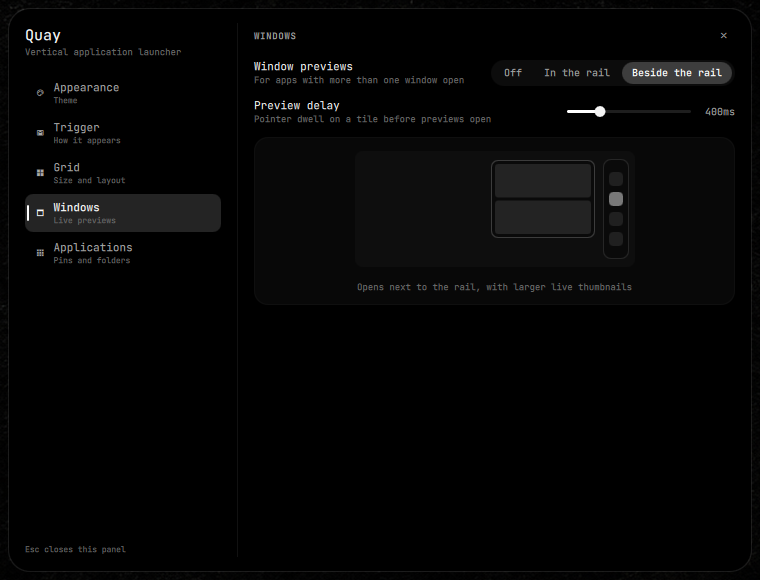
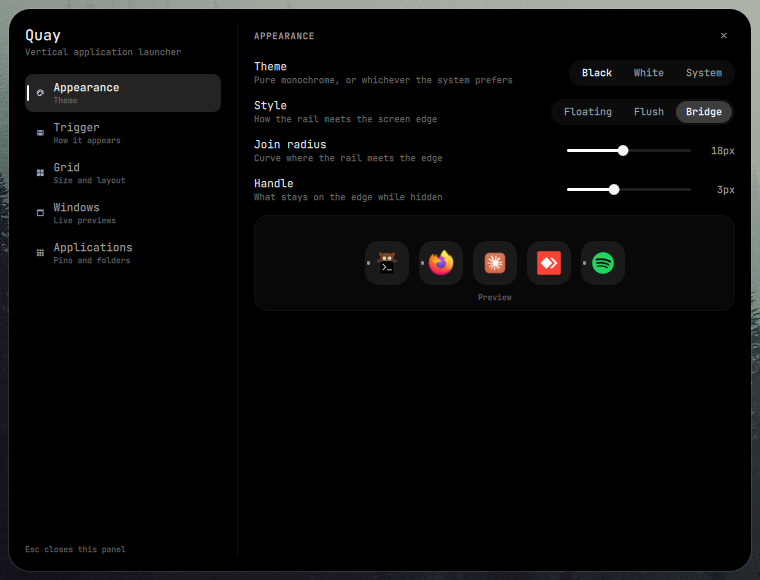
Belgelere ray görünümlerini ve yeni ekran görüntülerini ekle
README'lerde yapılandırma örneğine appearance anahtarları, özellik
listesine görünümler maddesi. Yeni styles.png üç görünümü yan yana
gösterir; settings.png artık Bridge seçili Appearance bölümünü gösterir.
Sitede ekran görüntüleri ve Settings bölümüne Style satırı.

diff --git a/docs/index.html b/docs/index.html
@@ -877,7 +877,7 @@ h3 { margin: 56px 0 18px; font: 700 14px/1.4 var(--mono); color: var(--ink); }
 
   <section class="block" id="desktop" aria-labelledby="desktop-title">
     <h2 id="desktop-title">On a desktop</h2>
-    <p class="section-lede">Captured on Hyprland at 1920×1080: the rail in both themes, window previews beside the rail for an app with two windows, the tile menu, and the Windows section of Quay's own settings panel.</p>
+    <p class="section-lede">Captured on Hyprland at 1920×1080: the rail in both themes and in its three styles, window previews beside the rail for an app with two windows, the tile menu, and the Appearance section of Quay's own settings panel.</p>
     <div class="shots">
       <figure class="wide">
         <img src="screenshots/rail.png" width="1024" height="660" loading="lazy" alt="The rail docked to the right edge of the screen, in the black theme and in the white theme">
@@ -892,8 +892,12 @@ h3 { margin: 56px 0 18px; font: 700 14px/1.4 var(--mono); color: var(--ink); }
         <figcaption>Tile menu</figcaption>
       </figure>
       <figure class="wide">
-        <img src="screenshots/settings.png" width="760" height="580" loading="lazy" alt="Quay's settings panel on the Windows section, choosing where previews open">
-        <figcaption>Settings panel, Windows section</figcaption>
+        <img src="screenshots/styles.png" width="1044" height="1018" loading="lazy" alt="The rail in its three styles: Floating off the edge, Flush along the whole edge, and Bridge welded to the edge">
+        <figcaption>Floating, Flush and Bridge styles</figcaption>
+      </figure>
+      <figure class="wide">
+        <img src="screenshots/settings.png" width="760" height="580" loading="lazy" alt="Quay's settings panel on the Appearance section, with the Bridge style selected">
+        <figcaption>Settings panel, Appearance section</figcaption>
       </figure>
     </div>
   </section>
@@ -912,6 +916,13 @@ h3 { margin: 56px 0 18px; font: 700 14px/1.4 var(--mono); color: var(--ink); }
           <button type="button" data-theme-choice="white">White</button>
           <button type="button" data-theme-choice="auto">System</button>
         </div>
+      </div>
+      <div class="setting">
+        <div>
+          <p class="setting-label">Style</p>
+          <p class="setting-hint">Off the edge, along the whole edge as part of the screen's frame, or welded to it with curved joins.</p>
+        </div>
+        <div class="seg" aria-hidden="true"><span class="is-current">Floating</span><span>Flush</span><span>Bridge</span></div>
       </div>
       <div class="setting">
         <div>

diff --git a/README.tr.md b/README.tr.md
@@ -81,6 +81,9 @@ _2026-09-15 tarihinde yayınlandı · [Tüm değişiklik günlüğü](CHANGELOG.
   yapmak için başka birinin üstüne bırak.
 - **Üç görünme biçimi.** Her zaman ekranda, imleç kenara gelince kayarak ya da
   bir tuşla.
+- **Floating, flush ya da bridge.** Rayı kenardan ayrık tut, ekran çerçevesinin
+  parçası gibi tüm kenar boyunca uzat ya da ince bir tutamaktan büyüyen kavisli
+  birleşimlerle kenara kaynaştır.
 - **Asla yer kaplamaz.** Quay pencerelerinin üzerinde durur ve özel alan ayırmaz;
   açıldığında hiçbir pencere küçülmez.
 - **Siyah, beyaz ya da sistemin tercihi.** İki yönde de saf tek renk, ya da
@@ -99,12 +102,16 @@ _2026-09-15 tarihinde yayınlandı · [Tüm değişiklik günlüğü](CHANGELOG.
 </p>
 
 <p align="center">
-  <img src="docs/screenshots/settings.png" width="560" alt="Quay'in ayar paneli, önizlemenin nereye açılacağının seçildiği Pencereler bölümünde">
+  <img src="docs/screenshots/styles.png" width="640" alt="Rayın üç görünümü: kenardan ayrık Floating, tüm kenar boyunca Flush ve kenara kaynaşan Bridge">
+</p>
+
+<p align="center">
+  <img src="docs/screenshots/settings.png" width="560" alt="Quay'in ayar paneli, Bridge görünümünün seçildiği Appearance bölümünde">
 </p>
 
 İki penceresi olan bir uygulamanın rayın yanında açılan önizlemeleri, kutucuk
-menüsü ve Quay'in kendi ayar panelindeki Pencereler bölümü. Hyprland'de
-1920×1080 çözünürlükte çekildi.
+menüsü, rayın üç görünümü — Floating, Flush ve Bridge — ve Quay'in kendi ayar
+panelindeki Appearance bölümü. Hyprland'de 1920×1080 çözünürlükte çekildi.
 
 ## Gereksinimler
 
@@ -199,7 +206,12 @@ boyutları sınırlar; bir yazım hatası rayı ulaşılamaz hale getiremez.
 {
   "schemaVersion": 1,
   "appearance": {
-    "theme": "black"              // "black" | "white" | "auto" (sistemi izle)
+    "theme": "black",             // "black" | "white" | "auto" (sistemi izle)
+    "style": "floating",          // "floating" | "flush" (tüm kenar boyunca) | "bridge" (kenara kaynaşık)
+    "edgeGap": 8,                 // floating: rail ile ekran kenarı arasındaki boşluk
+    "fillet": 18,                 // flush, bridge: rail'in kenarla birleştiği kavisin yarıçapı
+    "handle": 3,                  // bridge: gizliyken kenarda kalan çizgi, 0 = yok
+    "frameInset": 0               // flush: yer ayırmayan bir bar için bırakılan pay
   },
   "trigger": {
     "mode": "hover",              // "always" | "hover" | "shortcut"

diff --git a/README.md b/README.md
@@ -81,6 +81,9 @@ _Released 2026-09-15 · [Full changelog](CHANGELOG.md)_
   make a folder.
 - **Three ways to appear.** Always on screen, sliding in when the pointer reaches
   the edge, or opened with a key.
+- **Floating, flush or bridge.** Keep the rail off the edge, run it along the
+  whole edge as part of the screen's frame, or weld it to the edge with curved
+  joins that grow out of a thin handle.
 - **Never takes space.** Quay floats over your windows and reserves no exclusive
   zone, so nothing is resized when it appears.
 - **Black, white, or the system's.** Pure monochrome either way, or following
@@ -99,12 +102,16 @@ _Released 2026-09-15 · [Full changelog](CHANGELOG.md)_
 </p>
 
 <p align="center">
-  <img src="docs/screenshots/settings.png" width="560" alt="Quay's settings panel on the Windows section, choosing where previews open">
+  <img src="docs/screenshots/styles.png" width="640" alt="The rail in its three styles: Floating off the edge, Flush along the whole edge, and Bridge welded to the edge">
 </p>
 
-Window previews beside the rail for an app with two windows, the tile menu, and
-the Windows section of Quay's own settings panel. Captured on Hyprland at
-1920×1080.
+<p align="center">
+  <img src="docs/screenshots/settings.png" width="560" alt="Quay's settings panel on the Appearance section, with the Bridge style selected">
+</p>
+
+Window previews beside the rail for an app with two windows, the tile menu, the
+three rail styles — Floating, Flush and Bridge — and the Appearance section of
+Quay's own settings panel. Captured on Hyprland at 1920×1080.
 
 ## Requirements
 
@@ -199,7 +206,12 @@ are clamped, so a typo cannot leave the rail unreachable.
 {
   "schemaVersion": 1,
   "appearance": {
-    "theme": "black"              // "black" | "white" | "auto" (follow the system)
+    "theme": "black",             // "black" | "white" | "auto" (follow the system)
+    "style": "floating",          // "floating" | "flush" (runs the whole edge) | "bridge" (welded to the edge)
+    "edgeGap": 8,                 // floating: space between the rail and the screen edge
+    "fillet": 18,                 // flush, bridge: radius of the curve where the rail meets the edge
+    "handle": 3,                  // bridge: sliver left on the edge while hidden, 0 for none
+    "frameInset": 0               // flush: room for a bar that reserves no space
   },
   "trigger": {
     "mode": "hover",              // "always" | "hover" | "shortcut"
